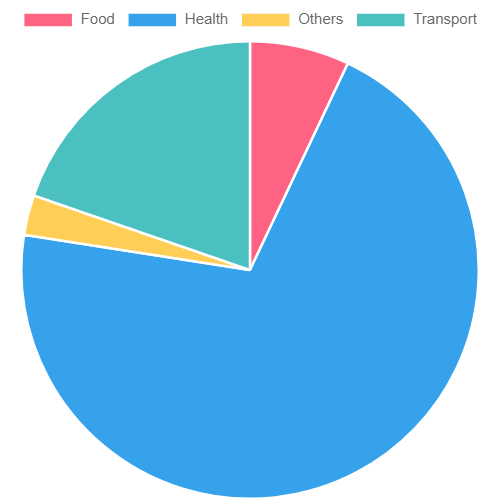
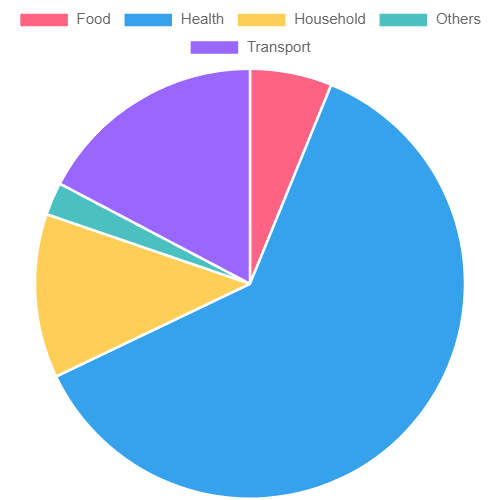
added all categories of income and expense in pdf to download

diff --git a/generate_report.php b/generate_report.php
@@ -9,6 +9,24 @@ if (!isset($_SESSION['username'])) {
     exit();
 }
 
+// Retrieve user information from the session
+$username = $_SESSION['username'];
+$user_id = $_SESSION['user_id'];
+
+// Database connection parameters
+$servername = "localhost";
+$db_username = "root";
+$db_password = "";
+$dbname = "spendrite";
+
+// Create connection
+$conn = new mysqli($servername, $db_username, $db_password, $dbname);
+
+// Check connection
+if ($conn->connect_error) {
+    die("Connection failed: " . $conn->connect_error);
+}
+
 /// Initialize variables and retrieve data
 $start_date = isset($_GET['start_date']) ? $_GET['start_date'] : '';
 $end_date = isset($_GET['end_date']) ? $_GET['end_date'] : '';
@@ -29,6 +47,34 @@ $expense_totalAmount = isset($_GET['expense_totalAmount']) ? $_GET['expense_tota
 $incomeChartImage = "chart_images/chart_income.png"; // Updated to use the saved image
 $expenseChartImage = "chart_images/chart_expense.png"; // Updated to use the saved image
 
+// Initialize variables
+$categoryStatistics = array();
+
+// Fetch category-wise income data from the database within the specified date range
+$categoryIncomeData = array();
+$sql = "SELECT source, SUM(amount) AS total_amount FROM incomes WHERE user_id = $user_id AND created_at BETWEEN '$start_date' AND '$end_date' GROUP BY source";
+$result = mysqli_query($conn, $sql);
+
+if ($result) {
+    while ($row = mysqli_fetch_assoc($result)) {
+        $categoryIncomeData[$row['source']] = $row['total_amount'];
+    }
+}
+
+// Fetch category-wise expense data from the database within the specified date range
+$categoryExpenseData = array();
+$sql = "SELECT expense_head, SUM(amount) AS total_amount FROM expenses WHERE user_id = $user_id AND created_at BETWEEN '$start_date' AND '$end_date' GROUP BY expense_head";
+$result = mysqli_query($conn, $sql);
+
+if ($result) {
+    while ($row = mysqli_fetch_assoc($result)) {
+        $categoryExpenseData[$row['expense_head']] = $row['total_amount'];
+    }
+}
+
+// Combine category-wise income and expense data
+$categoryStatistics = array_merge($categoryIncomeData, $categoryExpenseData);
+$conn->close();
 // Create a new PDF document
 $pdf = new TCPDF(PDF_PAGE_ORIENTATION, PDF_UNIT, PDF_PAGE_FORMAT, true, 'UTF-8', false);
 
@@ -39,11 +85,14 @@ $pdf->SetTitle('Dashboard Report');
 $pdf->SetSubject('Dashboard Statistics');
 $pdf->SetKeywords('Dashboard, Statistics, PDF');
 
+//defining heading for watermark
+$html = '<h2 style="text-align: center;">Generated by Spendrite</h2>';
+
 // Add a page
 $pdf->AddPage();
 
 // Add your content to the PDF (use HTML for formatting)
-$html = '<h1>Dashboard Report</h1>';
+$html .= '<h1>Dashboard Report</h1>';
 $html .= '<p>Start Date: ' . $start_date . '</p>';
 $html .= '<p>End Date: ' . $end_date . '</p>';
 $html .= '<p>Total Savings: ' ."Rs.". $net_savings . '</p>';
@@ -79,16 +128,40 @@ $html .= '<tr><th>Total Income</th><th>Total Expense</th></tr>';
 $html .= '<tr><td>'."Rs.".$income_totalAmount.'</td><td>'."Rs.".$expense_totalAmount.'</td></tr>';
 $html .= '</table>';
 
+// Add a section for category-wise income statistics
+$html .= '<h2>Income Categories</h2>';
+$html .= '<table border="1">';
+$html .= '<tr><th>Category</th><th>Amount (Rs)</th></tr>';
+
+foreach ($categoryIncomeData as $category => $amount) {
+    $html .= '<tr><td>' . $category . '</td><td>' . 'Rs. ' . number_format($amount, 2) . '</td></tr>';
+}
+
+$html .= '</table>';
+
+
 // Add chart images to the PDF (using the saved images)
 if (!empty($incomeChartImage)) {
     $html .= '<h2>Income Chart</h2>';
-    $html .= '<img src="' . $incomeChartImage . '" width="500" height="500"><br><br>';
+    $html .= '<img src="' . $incomeChartImage . '" width="300" height="300"><br><br>';
 }
+
+// Add a section for category-wise expense statistics
+$html .= '<h2>Expense Categories</h2>';
+$html .= '<table border="1">';
+$html .= '<tr><th>Category</th><th>Amount (Rs)</th></tr>';
+
+foreach ($categoryExpenseData as $category => $amount) {
+    $html .= '<tr><td>' . $category . '</td><td>' . 'Rs. ' . number_format($amount, 2) . '</td></tr>';
+}
+
+$html .= '</table>';
 
 if (!empty($expenseChartImage)) {
     $html .= '<h2>Expense Chart</h2>';
-    $html .= '<img src="' . $expenseChartImage . '" width="500" height="500"><br><br>';
+    $html .= '<img src="' . $expenseChartImage . '" width="300" height="300"><br><br>';
 }
+
 
 // Output the HTML content to the PDF
 $pdf->writeHTML($html, true, false, true, false, '');
